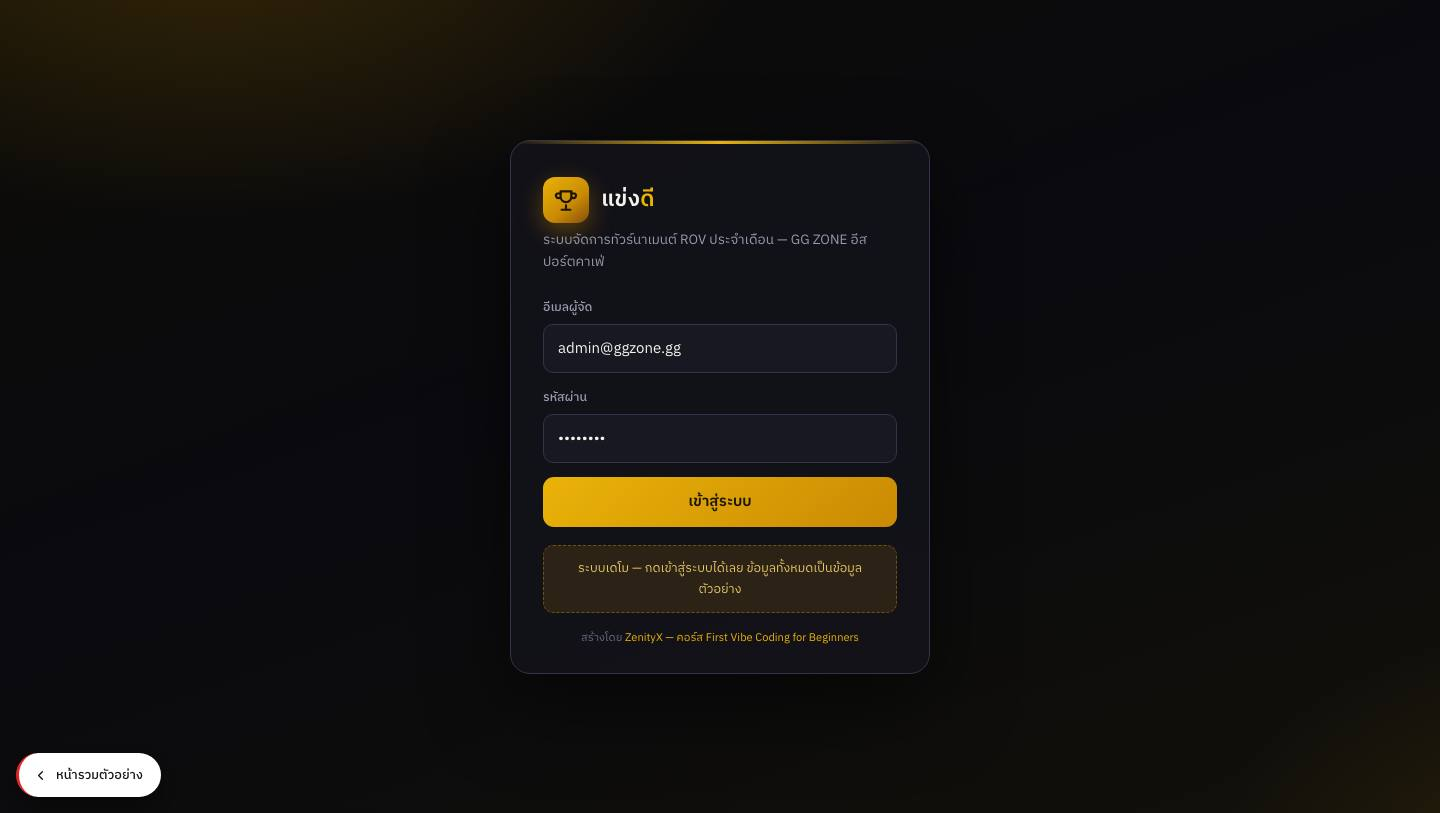
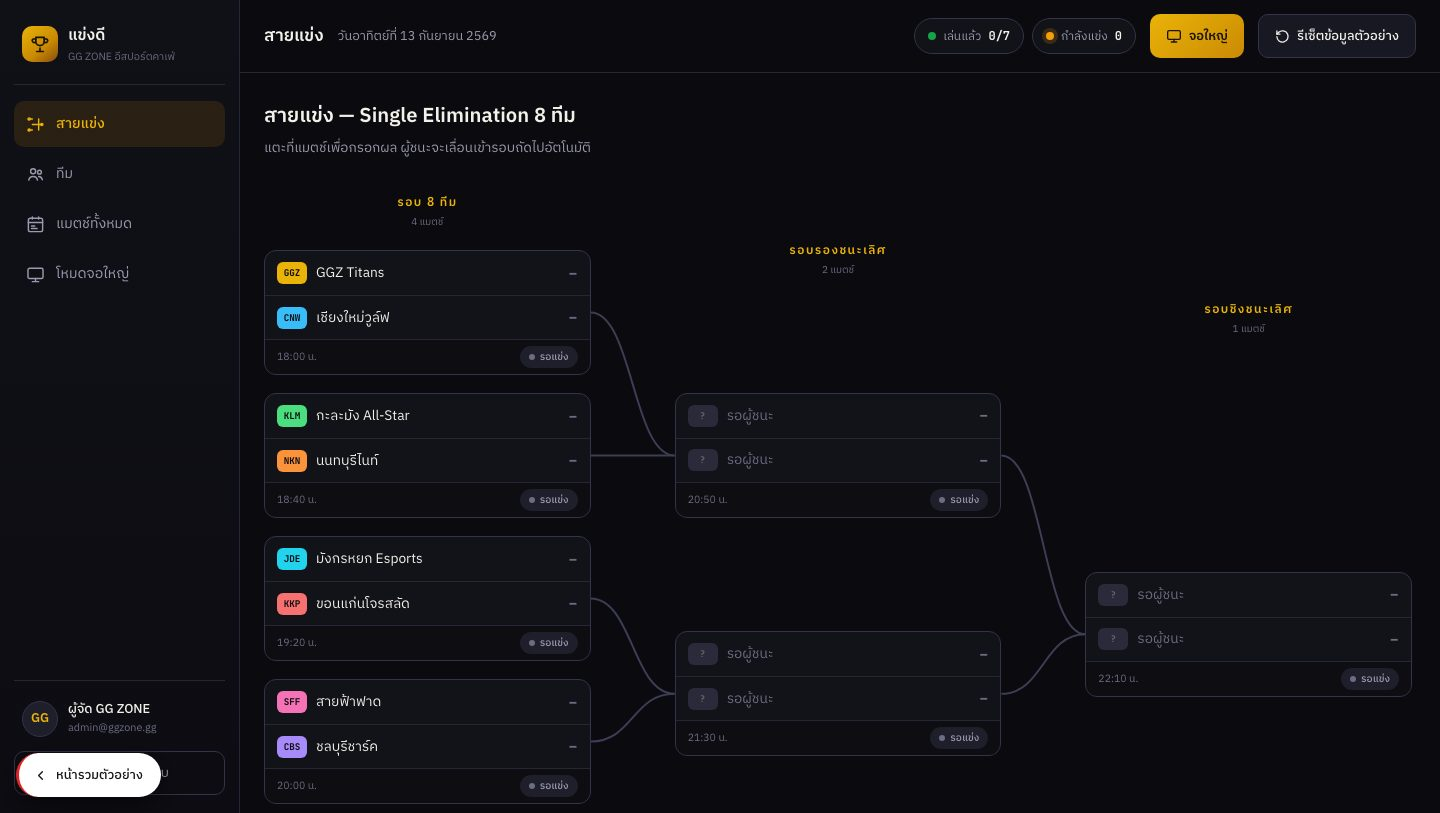
Fix 14 newer systems: ?app=1 auto-enter + app-view thumbnails
- Inject auto-enter snippet (same as original 10 systems) into 13 systems missing it; rental already had it
- All hub links use ?app=1 -> these systems now skip login straight into the working app
- Re-shot all 14 shots/systems/*.jpg at the real app UI (1440x900) instead of login screens
- CDP-verified: login hidden + 0 JS errors on all 14

diff --git a/systems/hotel/index.html b/systems/hotel/index.html
@@ -896,5 +896,22 @@ document.addEventListener('keydown', function(e){
 /* ================= INIT ================= */
 document.getElementById('th-date').textContent = new Date().toLocaleDateString('th-TH',{weekday:'long',day:'numeric',month:'long',year:'numeric'});
 </script>
+<script>
+/* Auto-enter app when opened with ?app=1 (from showcase hub) */
+(function(){
+  if (!/[?&]app=1/.test(location.href)) return;
+  function enter(){
+    var b = document.getElementById('loginBtn') || document.getElementById('btnLogin')
+         || document.querySelector('#loginForm button[type="submit"]')
+         || document.querySelector('.login-card button[type="submit"]')
+         || Array.prototype.find.call(document.querySelectorAll('button'), function(x){ return /\u0e40\u0e02\u0e49\u0e32\u0e2a\u0e39\u0e48\u0e23\u0e30\u0e1a\u0e1a/.test(x.textContent); });
+    if (b) { b.click(); return; }
+    var f = document.getElementById('loginForm') || document.querySelector('#loginView form') || document.querySelector('.login form');
+    if (f && f.requestSubmit) f.requestSubmit();
+  }
+  if (document.readyState !== 'loading') setTimeout(enter, 80);
+  else document.addEventListener('DOMContentLoaded', function(){ setTimeout(enter, 80); });
+})();
+</script>
 </body>
 </html>

diff --git a/systems/admin-shop/index.html b/systems/admin-shop/index.html
@@ -749,5 +749,22 @@ function renderChart(){
 function renderAll(){renderOrders();renderProducts();renderDashboard();}
 })();
 </script>
+<script>
+/* Auto-enter app when opened with ?app=1 (from showcase hub) */
+(function(){
+  if (!/[?&]app=1/.test(location.href)) return;
+  function enter(){
+    var b = document.getElementById('loginBtn') || document.getElementById('btnLogin')
+         || document.querySelector('#loginForm button[type="submit"]')
+         || document.querySelector('.login-card button[type="submit"]')
+         || Array.prototype.find.call(document.querySelectorAll('button'), function(x){ return /\u0e40\u0e02\u0e49\u0e32\u0e2a\u0e39\u0e48\u0e23\u0e30\u0e1a\u0e1a/.test(x.textContent); });
+    if (b) { b.click(); return; }
+    var f = document.getElementById('loginForm') || document.querySelector('#loginView form') || document.querySelector('.login form');
+    if (f && f.requestSubmit) f.requestSubmit();
+  }
+  if (document.readyState !== 'loading') setTimeout(enter, 80);
+  else document.addEventListener('DOMContentLoaded', function(){ setTimeout(enter, 80); });
+})();
+</script>
 </body>
 </html>

diff --git a/systems/purchasing/index.html b/systems/purchasing/index.html
@@ -1009,5 +1009,22 @@ $('#tb-date').textContent=new Date().toLocaleDateString('th-TH',{weekday:'long',
 renderAll();
 })();
 </script>
+<script>
+/* Auto-enter app when opened with ?app=1 (from showcase hub) */
+(function(){
+  if (!/[?&]app=1/.test(location.href)) return;
+  function enter(){
+    var b = document.getElementById('loginBtn') || document.getElementById('btnLogin')
+         || document.querySelector('#loginForm button[type="submit"]')
+         || document.querySelector('.login-card button[type="submit"]')
+         || Array.prototype.find.call(document.querySelectorAll('button'), function(x){ return /\u0e40\u0e02\u0e49\u0e32\u0e2a\u0e39\u0e48\u0e23\u0e30\u0e1a\u0e1a/.test(x.textContent); });
+    if (b) { b.click(); return; }
+    var f = document.getElementById('loginForm') || document.querySelector('#loginView form') || document.querySelector('.login form');
+    if (f && f.requestSubmit) f.requestSubmit();
+  }
+  if (document.readyState !== 'loading') setTimeout(enter, 80);
+  else document.addEventListener('DOMContentLoaded', function(){ setTimeout(enter, 80); });
+})();
+</script>
 </body>
 </html>

diff --git a/systems/school/index.html b/systems/school/index.html
@@ -643,5 +643,22 @@ $("#mOk").addEventListener("click",function(){
 $("#thaiDate").textContent=thaiDate(new Date());
 })();
 </script>
+<script>
+/* Auto-enter app when opened with ?app=1 (from showcase hub) */
+(function(){
+  if (!/[?&]app=1/.test(location.href)) return;
+  function enter(){
+    var b = document.getElementById('loginBtn') || document.getElementById('btnLogin')
+         || document.querySelector('#loginForm button[type="submit"]')
+         || document.querySelector('.login-card button[type="submit"]')
+         || Array.prototype.find.call(document.querySelectorAll('button'), function(x){ return /\u0e40\u0e02\u0e49\u0e32\u0e2a\u0e39\u0e48\u0e23\u0e30\u0e1a\u0e1a/.test(x.textContent); });
+    if (b) { b.click(); return; }
+    var f = document.getElementById('loginForm') || document.querySelector('#loginView form') || document.querySelector('.login form');
+    if (f && f.requestSubmit) f.requestSubmit();
+  }
+  if (document.readyState !== 'loading') setTimeout(enter, 80);
+  else document.addEventListener('DOMContentLoaded', function(){ setTimeout(enter, 80); });
+})();
+</script>
 </body>
 </html>

diff --git a/systems/laundry-ops/index.html b/systems/laundry-ops/index.html
@@ -542,5 +542,22 @@ function renderAll(){ renderChips(); renderOrders(); renderPickup(); renderSum()
 renderAll();
 })();
 </script>
+<script>
+/* Auto-enter app when opened with ?app=1 (from showcase hub) */
+(function(){
+  if (!/[?&]app=1/.test(location.href)) return;
+  function enter(){
+    var b = document.getElementById('loginBtn') || document.getElementById('btnLogin')
+         || document.querySelector('#loginForm button[type="submit"]')
+         || document.querySelector('.login-card button[type="submit"]')
+         || Array.prototype.find.call(document.querySelectorAll('button'), function(x){ return /\u0e40\u0e02\u0e49\u0e32\u0e2a\u0e39\u0e48\u0e23\u0e30\u0e1a\u0e1a/.test(x.textContent); });
+    if (b) { b.click(); return; }
+    var f = document.getElementById('loginForm') || document.querySelector('#loginView form') || document.querySelector('.login form');
+    if (f && f.requestSubmit) f.requestSubmit();
+  }
+  if (document.readyState !== 'loading') setTimeout(enter, 80);
+  else document.addEventListener('DOMContentLoaded', function(){ setTimeout(enter, 80); });
+})();
+</script>
 </body>
 </html>

diff --git a/systems/delivery/index.html b/systems/delivery/index.html
@@ -460,5 +460,22 @@ document.getElementById('resetBtn').addEventListener('click', function(){
 renderAll();
 })();
 </script>
+<script>
+/* Auto-enter app when opened with ?app=1 (from showcase hub) */
+(function(){
+  if (!/[?&]app=1/.test(location.href)) return;
+  function enter(){
+    var b = document.getElementById('loginBtn') || document.getElementById('btnLogin')
+         || document.querySelector('#loginForm button[type="submit"]')
+         || document.querySelector('.login-card button[type="submit"]')
+         || Array.prototype.find.call(document.querySelectorAll('button'), function(x){ return /\u0e40\u0e02\u0e49\u0e32\u0e2a\u0e39\u0e48\u0e23\u0e30\u0e1a\u0e1a/.test(x.textContent); });
+    if (b) { b.click(); return; }
+    var f = document.getElementById('loginForm') || document.querySelector('#loginView form') || document.querySelector('.login form');
+    if (f && f.requestSubmit) f.requestSubmit();
+  }
+  if (document.readyState !== 'loading') setTimeout(enter, 80);
+  else document.addEventListener('DOMContentLoaded', function(){ setTimeout(enter, 80); });
+})();
+</script>
 </body>
 </html>

diff --git a/systems/tournament/index.html b/systems/tournament/index.html
@@ -940,5 +940,22 @@ window.addEventListener("resize",function(){
 $("#thaiDate").textContent = thaiDate();
 })();
 </script>
+<script>
+/* Auto-enter app when opened with ?app=1 (from showcase hub) */
+(function(){
+  if (!/[?&]app=1/.test(location.href)) return;
+  function enter(){
+    var b = document.getElementById('loginBtn') || document.getElementById('btnLogin')
+         || document.querySelector('#loginForm button[type="submit"]')
+         || document.querySelector('.login-card button[type="submit"]')
+         || Array.prototype.find.call(document.querySelectorAll('button'), function(x){ return /\u0e40\u0e02\u0e49\u0e32\u0e2a\u0e39\u0e48\u0e23\u0e30\u0e1a\u0e1a/.test(x.textContent); });
+    if (b) { b.click(); return; }
+    var f = document.getElementById('loginForm') || document.querySelector('#loginView form') || document.querySelector('.login form');
+    if (f && f.requestSubmit) f.requestSubmit();
+  }
+  if (document.readyState !== 'loading') setTimeout(enter, 80);
+  else document.addEventListener('DOMContentLoaded', function(){ setTimeout(enter, 80); });
+})();
+</script>
 </body>
 </html>

diff --git a/systems/sales-report/index.html b/systems/sales-report/index.html
@@ -1048,5 +1048,22 @@ $('todayDate').textContent = new Date().toLocaleDateString('th-TH',{weekday:'lon
 
 })();
 </script>
+<script>
+/* Auto-enter app when opened with ?app=1 (from showcase hub) */
+(function(){
+  if (!/[?&]app=1/.test(location.href)) return;
+  function enter(){
+    var b = document.getElementById('loginBtn') || document.getElementById('btnLogin')
+         || document.querySelector('#loginForm button[type="submit"]')
+         || document.querySelector('.login-card button[type="submit"]')
+         || Array.prototype.find.call(document.querySelectorAll('button'), function(x){ return /\u0e40\u0e02\u0e49\u0e32\u0e2a\u0e39\u0e48\u0e23\u0e30\u0e1a\u0e1a/.test(x.textContent); });
+    if (b) { b.click(); return; }
+    var f = document.getElementById('loginForm') || document.querySelector('#loginView form') || document.querySelector('.login form');
+    if (f && f.requestSubmit) f.requestSubmit();
+  }
+  if (document.readyState !== 'loading') setTimeout(enter, 80);
+  else document.addEventListener('DOMContentLoaded', function(){ setTimeout(enter, 80); });
+})();
+</script>
 </body>
 </html>

diff --git a/systems/gym-members/index.html b/systems/gym-members/index.html
@@ -924,5 +924,22 @@ document.querySelectorAll('.qchip').forEach(function(b){
 renderAll();
 })();
 </script>
+<script>
+/* Auto-enter app when opened with ?app=1 (from showcase hub) */
+(function(){
+  if (!/[?&]app=1/.test(location.href)) return;
+  function enter(){
+    var b = document.getElementById('loginBtn') || document.getElementById('btnLogin')
+         || document.querySelector('#loginForm button[type="submit"]')
+         || document.querySelector('.login-card button[type="submit"]')
+         || Array.prototype.find.call(document.querySelectorAll('button'), function(x){ return /\u0e40\u0e02\u0e49\u0e32\u0e2a\u0e39\u0e48\u0e23\u0e30\u0e1a\u0e1a/.test(x.textContent); });
+    if (b) { b.click(); return; }
+    var f = document.getElementById('loginForm') || document.querySelector('#loginView form') || document.querySelector('.login form');
+    if (f && f.requestSubmit) f.requestSubmit();
+  }
+  if (document.readyState !== 'loading') setTimeout(enter, 80);
+  else document.addEventListener('DOMContentLoaded', function(){ setTimeout(enter, 80); });
+})();
+</script>
 </body>
 </html>

diff --git a/systems/appointments/index.html b/systems/appointments/index.html
@@ -1004,5 +1004,22 @@ document.addEventListener('keydown', function(e){
 });
 })();
 </script>
+<script>
+/* Auto-enter app when opened with ?app=1 (from showcase hub) */
+(function(){
+  if (!/[?&]app=1/.test(location.href)) return;
+  function enter(){
+    var b = document.getElementById('loginBtn') || document.getElementById('btnLogin')
+         || document.querySelector('#loginForm button[type="submit"]')
+         || document.querySelector('.login-card button[type="submit"]')
+         || Array.prototype.find.call(document.querySelectorAll('button'), function(x){ return /\u0e40\u0e02\u0e49\u0e32\u0e2a\u0e39\u0e48\u0e23\u0e30\u0e1a\u0e1a/.test(x.textContent); });
+    if (b) { b.click(); return; }
+    var f = document.getElementById('loginForm') || document.querySelector('#loginView form') || document.querySelector('.login form');
+    if (f && f.requestSubmit) f.requestSubmit();
+  }
+  if (document.readyState !== 'loading') setTimeout(enter, 80);
+  else document.addEventListener('DOMContentLoaded', function(){ setTimeout(enter, 80); });
+})();
+</script>
 </body>
 </html>

diff --git a/systems/cashbook/index.html b/systems/cashbook/index.html
@@ -877,5 +877,22 @@ $('#fDate').max=todayStr;
 
 })();
 </script>
+<script>
+/* Auto-enter app when opened with ?app=1 (from showcase hub) */
+(function(){
+  if (!/[?&]app=1/.test(location.href)) return;
+  function enter(){
+    var b = document.getElementById('loginBtn') || document.getElementById('btnLogin')
+         || document.querySelector('#loginForm button[type="submit"]')
+         || document.querySelector('.login-card button[type="submit"]')
+         || Array.prototype.find.call(document.querySelectorAll('button'), function(x){ return /\u0e40\u0e02\u0e49\u0e32\u0e2a\u0e39\u0e48\u0e23\u0e30\u0e1a\u0e1a/.test(x.textContent); });
+    if (b) { b.click(); return; }
+    var f = document.getElementById('loginForm') || document.querySelector('#loginView form') || document.querySelector('.login form');
+    if (f && f.requestSubmit) f.requestSubmit();
+  }
+  if (document.readyState !== 'loading') setTimeout(enter, 80);
+  else document.addEventListener('DOMContentLoaded', function(){ setTimeout(enter, 80); });
+})();
+</script>
 </body>
 </html>

diff --git a/systems/repair/index.html b/systems/repair/index.html
@@ -877,5 +877,22 @@ function init(){
 init();
 })();
 </script>
+<script>
+/* Auto-enter app when opened with ?app=1 (from showcase hub) */
+(function(){
+  if (!/[?&]app=1/.test(location.href)) return;
+  function enter(){
+    var b = document.getElementById('loginBtn') || document.getElementById('btnLogin')
+         || document.querySelector('#loginForm button[type="submit"]')
+         || document.querySelector('.login-card button[type="submit"]')
+         || Array.prototype.find.call(document.querySelectorAll('button'), function(x){ return /\u0e40\u0e02\u0e49\u0e32\u0e2a\u0e39\u0e48\u0e23\u0e30\u0e1a\u0e1a/.test(x.textContent); });
+    if (b) { b.click(); return; }
+    var f = document.getElementById('loginForm') || document.querySelector('#loginView form') || document.querySelector('.login form');
+    if (f && f.requestSubmit) f.requestSubmit();
+  }
+  if (document.readyState !== 'loading') setTimeout(enter, 80);
+  else document.addEventListener('DOMContentLoaded', function(){ setTimeout(enter, 80); });
+})();
+</script>
 </body>
 </html>
